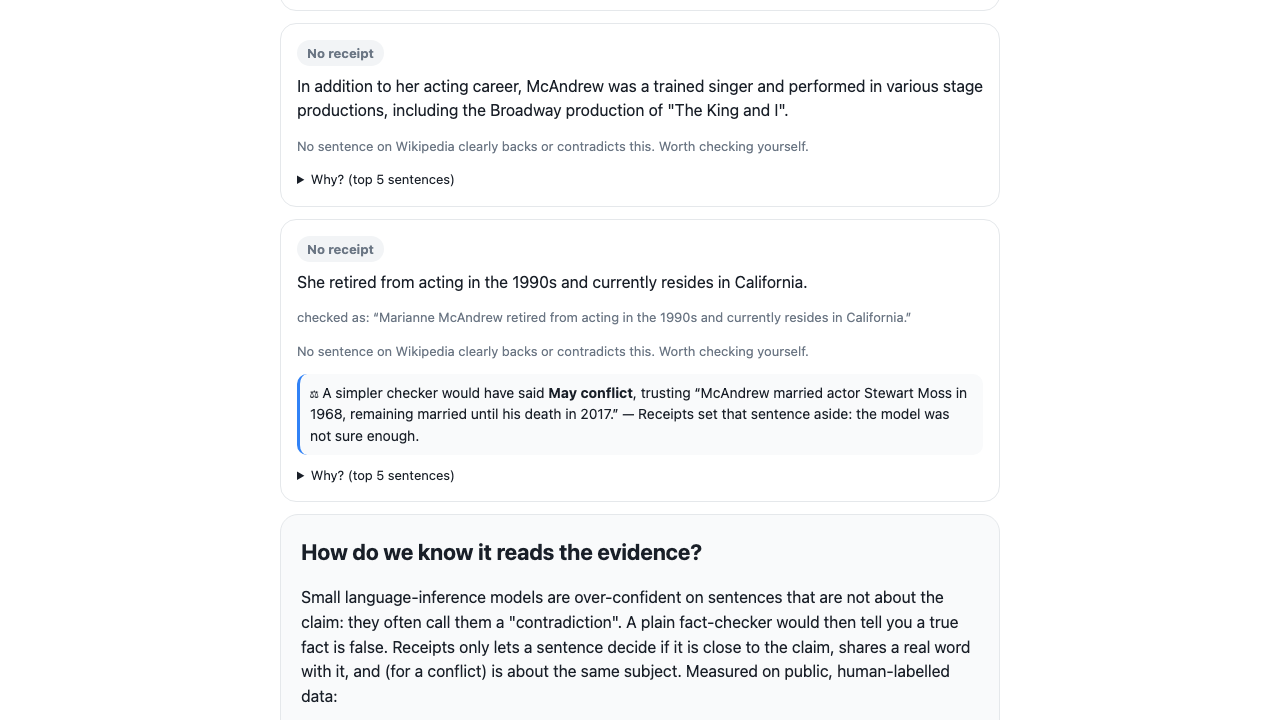
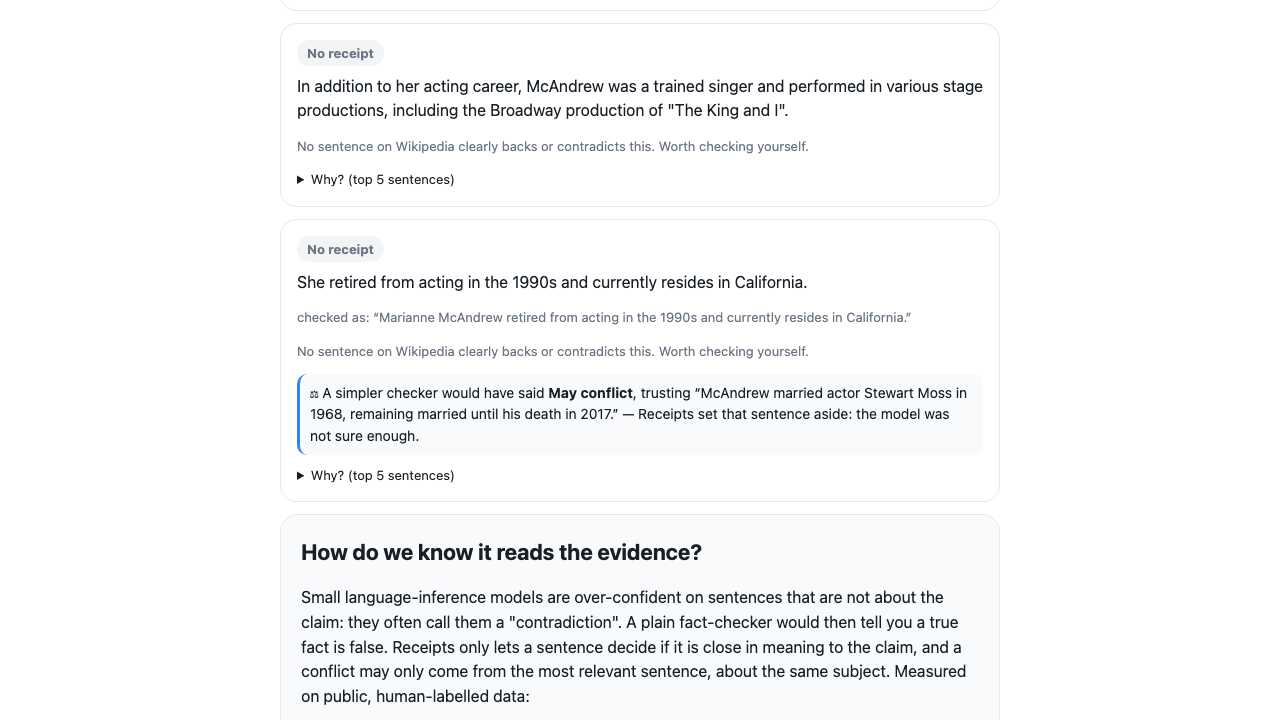
Docs/UI: describe the v2 gate accurately

Changed region(s): [[0.2188, 0.8861, 0.75, 0.9778]]

diff --git a/docs/gallery/gallery.html b/docs/gallery/gallery.html
@@ -53,7 +53,7 @@
     <div class="box"><b>2 · Retrieve</b><span>Wikipedia search per claim; prose only</span></div><div class="arrow">→</div>
     <div class="box"><b>3 · Rank</b><span>word pre-filter (40) → MiniLM embeddings (top 5)</span></div><div class="arrow">→</div>
     <div class="box"><b>4 · Infer</b><span>DeBERTa NLI: backs / contradicts / neutral</span></div><div class="arrow">→</div>
-    <div class="box gate"><b>5 · Gate</b><span>close in meaning + shared word + same subject — or no verdict</span></div>
+    <div class="box gate"><b>5 · Gate</b><span>close in meaning; a conflict only from the top sentence, same subject — or no verdict</span></div>
   </div>
   <div class="layers">src/domain — claims · gate · verdict (pure)<br>src/application — checkAnswer + ports<br>src/adapters — Wikipedia · transformers.js<br>web/ · scripts/ — UI · evaluation · captures</div>
   <p class="src">transformers.js (ONNX, WebAssembly) · Xenova/nli-deberta-v3-xsmall · Xenova/all-MiniLM-L6-v2 · MediaWiki API · TypeScript · Vite · Vitest · Playwright</p>

diff --git a/docs/gallery/gallery.rendered.html b/docs/gallery/gallery.rendered.html
@@ -53,7 +53,7 @@
     <div class="box"><b>2 · Retrieve</b><span>Wikipedia search per claim; prose only</span></div><div class="arrow">→</div>
     <div class="box"><b>3 · Rank</b><span>word pre-filter (40) → MiniLM embeddings (top 5)</span></div><div class="arrow">→</div>
     <div class="box"><b>4 · Infer</b><span>DeBERTa NLI: backs / contradicts / neutral</span></div><div class="arrow">→</div>
-    <div class="box gate"><b>5 · Gate</b><span>close in meaning + shared word + same subject — or no verdict</span></div>
+    <div class="box gate"><b>5 · Gate</b><span>close in meaning; a conflict only from the top sentence, same subject — or no verdict</span></div>
   </div>
   <div class="layers">src/domain — claims · gate · verdict (pure)<br>src/application — checkAnswer + ports<br>src/adapters — Wikipedia · transformers.js<br>web/ · scripts/ — UI · evaluation · captures</div>
   <p class="src">transformers.js (ONNX, WebAssembly) · Xenova/nli-deberta-v3-xsmall · Xenova/all-MiniLM-L6-v2 · MediaWiki API · TypeScript · Vite · Vitest · Playwright</p>

diff --git a/web/index.html b/web/index.html
@@ -50,7 +50,7 @@
       <h2>How do we know it reads the evidence?</h2>
       <p>Small language-inference models are over-confident on sentences that are not about the claim: they often call
         them a "contradiction". A plain fact-checker would then tell you a true fact is false. Receipts only lets a sentence
-        decide if it is close to the claim, shares a real word with it, and (for a conflict) is about the same subject.
+        decide if it is close in meaning to the claim, and a conflict may only come from the most relevant sentence, about the same subject.
         Measured on public, human-labelled data:</p>
       <ul id="how-numbers"></ul>
       <p class="muted small">Look for the ⚖ notes under a claim: they show what a simpler checker would have said, and why Receipts set that sentence aside.</p>

diff --git a/README.md b/README.md
@@ -24,8 +24,8 @@ Wikipedia that backs or contradicts each claim — and leaves the judgement to y
 Small natural-language-inference models (the kind that decide whether sentence A supports sentence B) are over-confident on
 sentences that are **not about the claim**: they often call them a "contradiction". A plain fact-checker built on them tells you
 a true fact is false — my first version said Julia Faye's death date was contradicted by a sentence about her father.
-Receipts puts a **relevance gate** in front of the model: an evidence sentence may decide only if it is close in meaning, shares
-a real word with the claim beyond the name, and — for a conflict — is about the same subject. When a plain "top sentence + raw
+Receipts puts a **relevance gate** in front of the model: an evidence sentence may decide only if it is close in meaning to the
+claim, and a conflict may only come from the single most relevant sentence and only if it is about the same subject. When a plain "top sentence + raw
 model" checker would have answered differently, the app shows that answer and why the sentence was set aside.
 
 ## How it works
